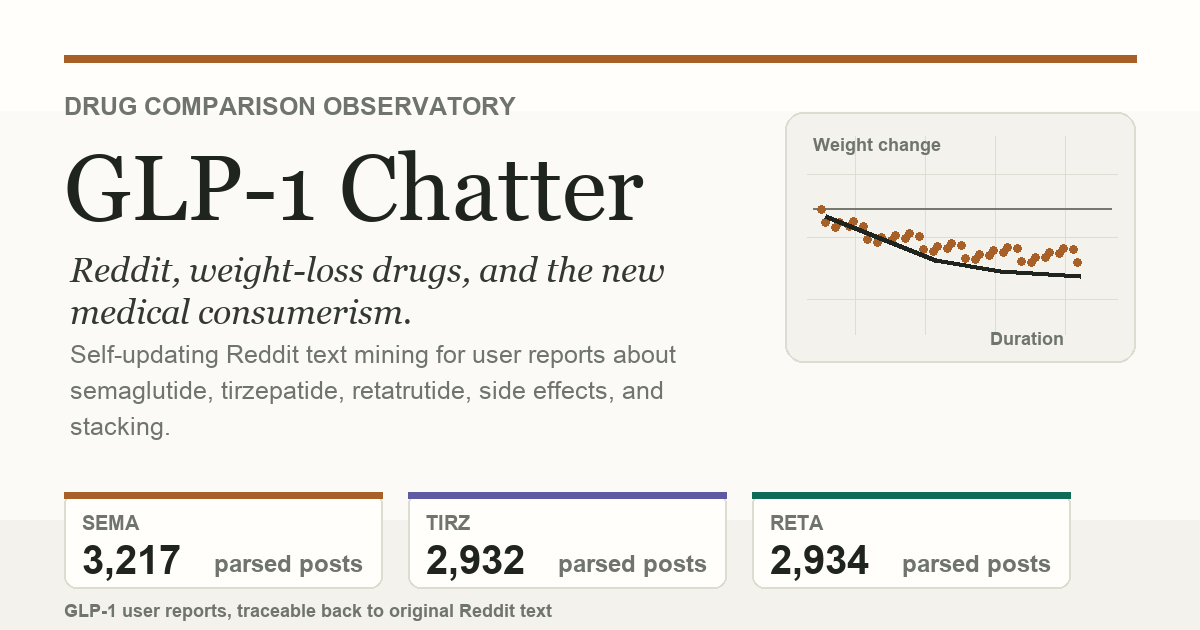
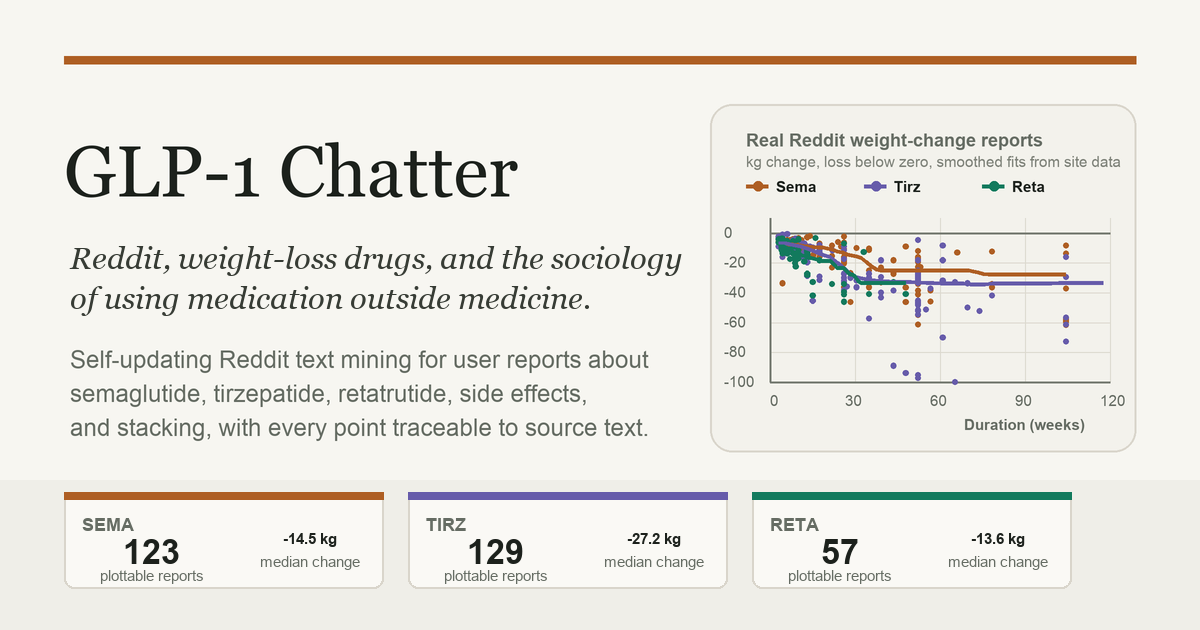
Update social preview and side effect quotes

diff --git a/scripts/build_site.py b/scripts/build_site.py
@@ -62,6 +62,48 @@ FAMILY_COPY = {
     },
 }
 
+SIDE_EFFECT_MILD_QUOTES = {
+    "sema": {
+        "effect": "slight nausea",
+        "quote": "I took my first dose yesterday ... I&rsquo;ve had some slight nausea already ... I&rsquo;m starting at 201 lbs",
+        "source": "Mild LLM example, slight nausea, r/Semaglutide",
+        "url": "https://www.reddit.com/r/Semaglutide/comments/1kd3orm/first_dose_yesterday_second_go_at_glp1/",
+    },
+    "tirz": {
+        "effect": "mild headache",
+        "quote": "So yesterday I took my first dose of 2.5mg ... side-effects I would just say I had a mild headache",
+        "source": "Mild LLM example, mild headache, r/Mounjaro",
+        "url": "https://www.reddit.com/r/Mounjaro/comments/1fqjmkl/started_my_journey_yesterday/",
+    },
+    "reta": {
+        "effect": "minor fatigue and constipation",
+        "quote": "I&rsquo;m just finishing up my first cycle with Retatrutide ... achieved my target weight with only minor side effects (minor fatigue and some constipation)",
+        "source": "Mild LLM example, minor fatigue and constipation, r/Retatrutide",
+        "url": "https://www.reddit.com/r/Retatrutide/comments/1kne6hn/ramp_down_question/",
+    },
+}
+
+SIDE_EFFECT_SEVERE_QUOTES = {
+    "sema": {
+        "effect": "uncontrollable vomiting",
+        "quote": "I&rsquo;m exactly one month into semaglutide ... about 48 hours after my shot I get violently ill ... uncontrollably vomiting for hours on end ... can&rsquo;t keep even water down",
+        "source": "Severe LLM example, uncontrollable vomiting, r/Semaglutide",
+        "url": "https://www.reddit.com/r/Semaglutide/comments/1knbukl/sema_warriors_please_help/",
+    },
+    "tirz": {
+        "effect": "severe nausea and vomiting",
+        "quote": "give up on Mounjaro due to severe nausea and vomiting for 36 hours which starts 24 hours after dose",
+        "source": "Severe LLM example, severe nausea and vomiting, r/Mounjaro",
+        "url": "https://www.reddit.com/r/Mounjaro/comments/1kq7cfy/to_those_who_believe_in_injection_site_difference/mt42t1a/",
+    },
+    "reta": {
+        "effect": "severe stomach pains",
+        "quote": "Been on Retatrutide for about 8 weeks at 2mg/wk and last night developed severe stomach pains ... CT scan showed severe enteritis",
+        "source": "Severe LLM example, severe stomach pains, r/Retatrutide",
+        "url": "https://www.reddit.com/r/Retatrutide/comments/1kfgr6i/reta_contribute_to_severe_enteritis/",
+    },
+}
+
 WEIGHT_PAGE_COPY = {
     "reta": [
         (
@@ -708,47 +750,21 @@ def clipped_quote(value: str | None, limit: int = 185) -> str:
     return f"{clipped}..."
 
 
-def side_effect_severity_examples(explorer: dict[str, Any]) -> dict[str, dict[str, str]]:
-    examples: dict[str, dict[str, str]] = {}
-    reports = explorer.get("reports", {})
-    for report in reports.values():
-        for effect, severity_info in (report.get("severity_by_effect") or {}).items():
-            severity = severity_info.get("severity")
-            if severity not in {"mild", "severe"} or severity in examples:
-                continue
-            quote = clipped_quote(report.get("evidence")) or clipped_quote(report.get("text_excerpt"))
-            if not quote:
-                continue
-            examples[severity] = {
-                "effect": str(effect),
-                "quote": quote,
-                "url": str(report.get("url") or "#"),
-                "subreddit": str(report.get("subreddit") or "unknown"),
-            }
-        if {"mild", "severe"}.issubset(examples):
-            break
-    return examples
-
-
-def side_effect_examples_html(explorer: dict[str, Any]) -> str:
-    examples = side_effect_severity_examples(explorer)
-    cards = []
-    for severity in ("mild", "severe"):
-        example = examples.get(severity)
-        if not example:
-            continue
-        cards.append(
-            f"""
-        <figure class="severity-example severity-example-{severity}">
-          <figcaption>{severity.capitalize()} LLM example - {html.escape(example["effect"])} - r/{html.escape(example["subreddit"])}</figcaption>
-          <blockquote>{html.escape(example["quote"])}</blockquote>
-          <a class="reddit-link" href="{html.escape(example["url"])}" target="_blank" rel="noopener">Open Reddit URL</a>
-        </figure>
-"""
-        )
-    if not cards:
+def side_effect_examples_html(family: str) -> str:
+    mild = SIDE_EFFECT_MILD_QUOTES.get(family)
+    severe = SIDE_EFFECT_SEVERE_QUOTES.get(family)
+    if not mild or not severe:
         return ""
-    return f'      <div class="severity-examples">{"".join(cards)}      </div>'
+    return (
+        "The spread is part of the point. A mild label can mean a short, manageable nuisance, "
+        f'<q class="home-story-quote">{mild["quote"]}</q> '
+        f'<span class="home-story-source">{html.escape(mild["source"])} · '
+        f'<a href="{html.escape(mild["url"])}" target="_blank" rel="noopener">source</a></span>, '
+        "while another nearby report can sound much more frightening, "
+        f'<q class="home-story-quote home-story-quote-vulnerable">{severe["quote"]}</q> '
+        f'<span class="home-story-source">{html.escape(severe["source"])} · '
+        f'<a href="{html.escape(severe["url"])}" target="_blank" rel="noopener">source</a></span>.'
+    )
 
 
 def side_effect_explorer_payload(
@@ -1442,7 +1458,7 @@ def render_scatter_page(family: str, generated_at: str, has_rct: bool) -> str:
 
 def render_side_effect_page(family: str, generated_at: str, explorer: dict[str, Any]) -> str:
     name = FAMILY_NAMES[family]
-    examples_html = side_effect_examples_html(explorer)
+    examples_html = side_effect_examples_html(family)
     body = f"""
 <body data-view="side-effects" data-family="{family}" data-json="../data/{family}.json">
   {site_header("../", active="effects")}
@@ -1452,8 +1468,7 @@ def render_side_effect_page(family: str, generated_at: str, explorer: dict[str, 
       <p class="eyebrow">{html.escape(name)}</p>
       <h1>Side-effects</h1>
       <div class="page-copy side-effect-page-copy">
-{examples_html}
-        <p>These medications are certainly not without side effects. As with the weight-loss plots, GLP-1 Chatter starts by selecting Reddit posts and comments that mention the relevant drug family, then reads them one by one to pull out the symptoms people say they experienced. A second one-report screen gives each extracted phrase a reader-facing severity label: mild, moderate, or severe. The point is not to diagnose anyone. It is to make a sprawling archive easier to navigate without separating the count from the story that produced it.</p>
+        <p>These medications are certainly not without side effects. As with the weight-loss plots, GLP-1 Chatter starts by selecting Reddit posts and comments that mention the relevant drug family, then reads them one by one to pull out the symptoms people say they experienced. {examples_html} A second one-report screen gives each extracted phrase a reader-facing severity label: mild, moderate, or severe. The point is not to diagnose anyone. It is to make a sprawling archive easier to navigate without separating the count from the story that produced it.</p>
         <p>The labels are not clinical adverse-event grades. They are a way of reading a noisy public archive: mild when the report sounds limited or manageable, moderate when it becomes disruptive or persistent, and severe when the text points to danger, drug stopping, urgent care, inability to keep food or fluids down, or major impairment. "Unscreened" means the report has not yet received that severity pass.</p>
         <p>Use the frequency list to choose a specific side effect, the co-occurrence view to see symptoms that travel together, and the severity buttons to narrow the archive to mild, moderate, or severe accounts. The report cards below then let you browse the source posts and full Reddit text, preserving the lived context people chose to share: excitement, fear, reassurance, practical advice, and sometimes vulnerability in a place that may or may not give them reliable support.</p>
       </div>